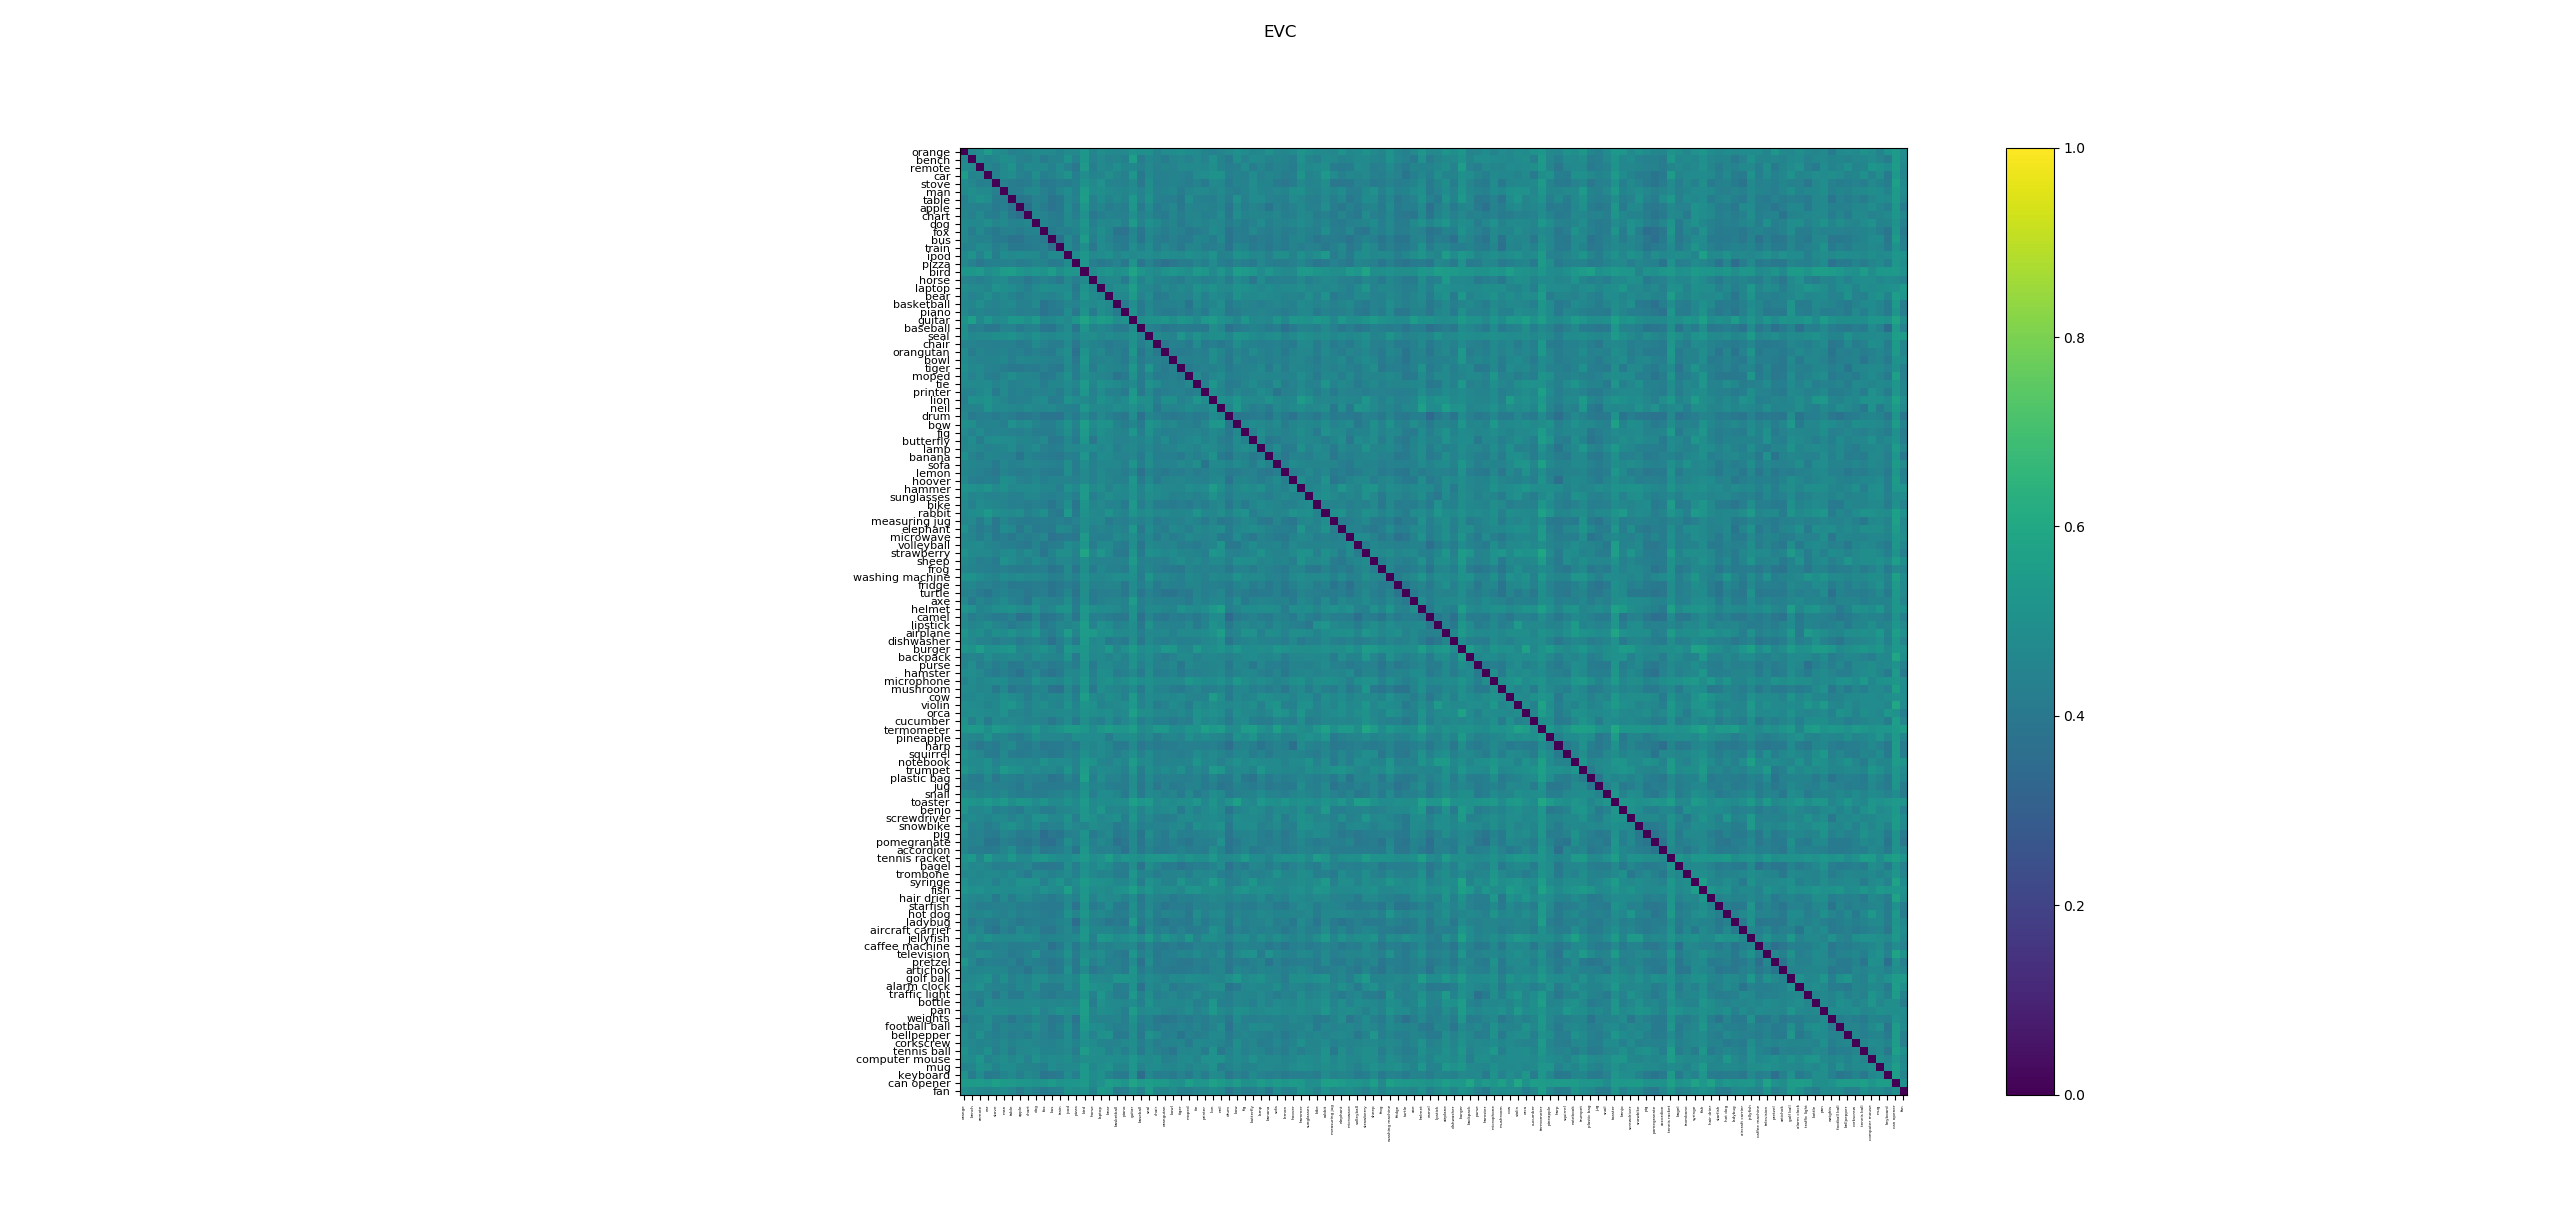
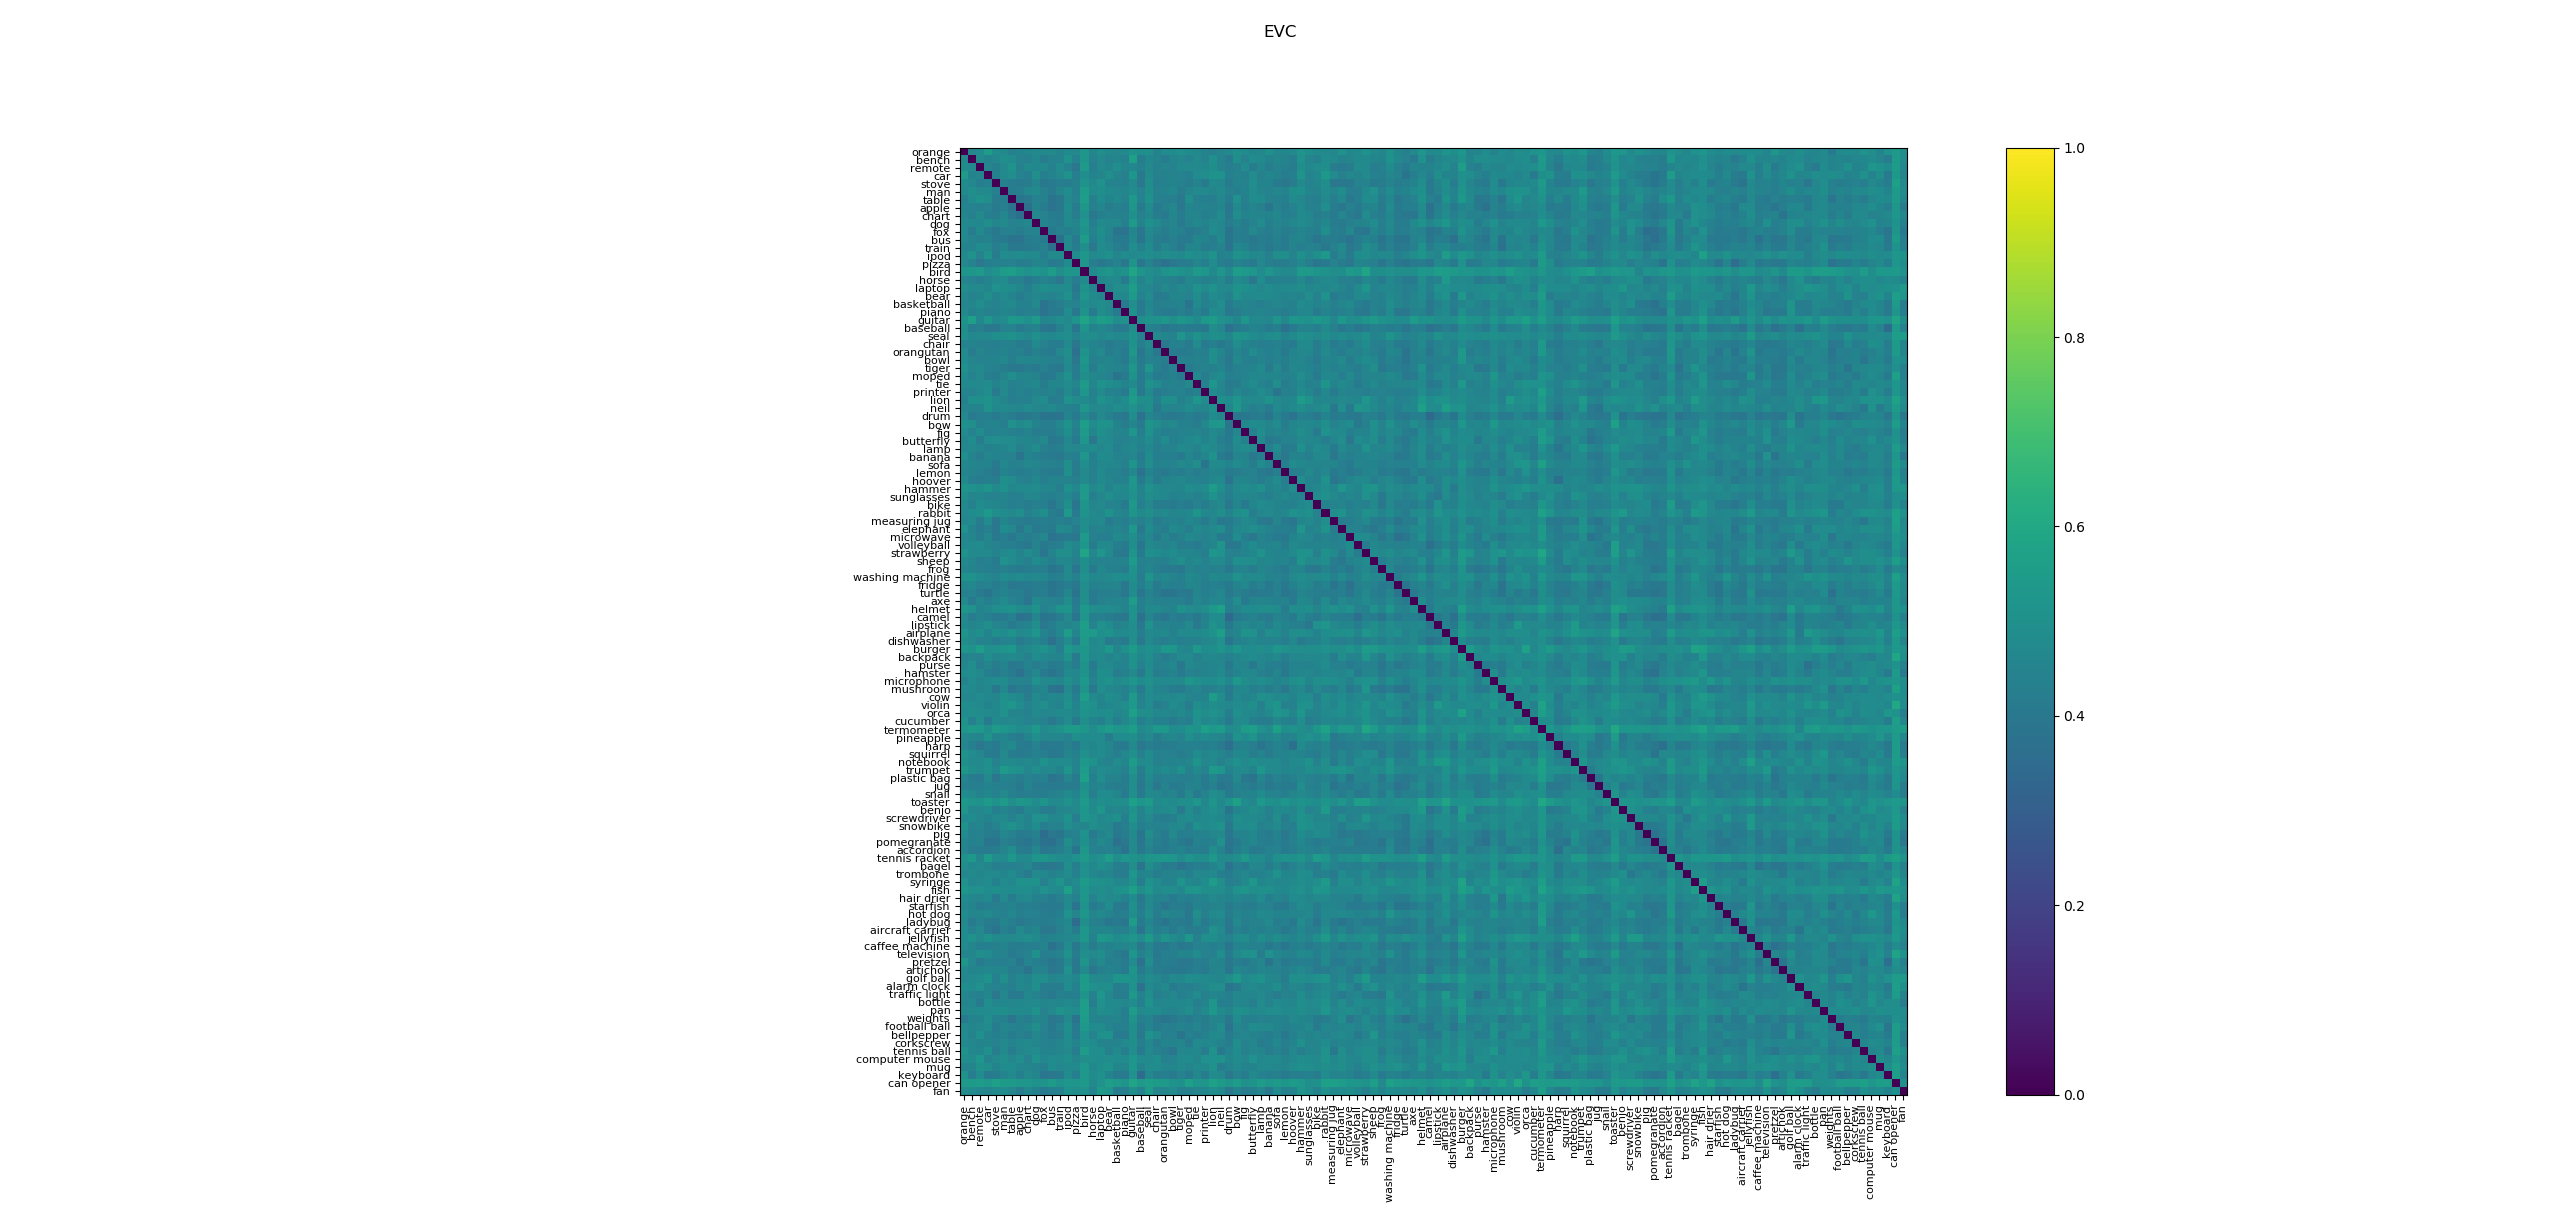
updates to plots layout

Changed region(s): [[0.375, 0.8959, 0.75, 0.9577]]

diff --git a/cichy118_evaluate_dc_fmri.py b/cichy118_evaluate_dc_fmri.py
@@ -171,29 +171,42 @@ def main(layers,act,img_names,img_synsets):
 
 
     ######### evaluate dc vs fmri
-    for layer in range(0,len(layers)):
-        out = evaluate(dc_rdm[layer], fmri_rdm_dict)
-        print('=' * 20)
-        print('dc%s_fMRI results:' %str(layer+1))
-        print('Squared correlation of model to EVC (R**2): {}'.format(out['EVC_RDMs'][0]), '  and significance: {}'.format(out['EVC_RDMs'][1]))
-        print('Squared correlation of model to IT (R**2): {}'.format(out['IT_RDMs'][0]), '  and significance: {}'.format(out['IT_RDMs'][1]))
-        print('SCORE (average of the two correlations): {}'.format(out['score'])) 
+    with open('dc_fmri_scores.txt', 'w') as f:
+        for layer in range(0,len(layers)):
+            out = evaluate(dc_rdm[layer], fmri_rdm_dict)
+            print('=' * 20)
+            print('dc%s_fMRI results:' %str(layer+1))
+            print('Squared correlation of model to EVC (R**2): {}'.format(out['EVC_RDMs'][0]), '  and significance: {}'.format(out['EVC_RDMs'][1]))
+            print('Squared correlation of model to IT (R**2): {}'.format(out['IT_RDMs'][0]), '  and significance: {}'.format(out['IT_RDMs'][1]))
+            print('SCORE (average of the two correlations): {}'.format(out['score'])) 
+            f.write('=' * 20 + '\n')
+            f.write('dc%s_fMRI results:' %str(layer+1) + '\n')
+            f.write('Squared correlation of model to EVC (R**2): {}'.format(out['EVC_RDMs'][0]) + '\n')
+            f.write('Squared correlation of model to IT (R**2): {}'.format(out['IT_RDMs'][0]) + '\n')
+            f.write('SCORE (average of the two correlations): {}'.format(out['score']) + '\n') 
 
         #evc_percentNC = ((out['EVC_RDMs'][0])/nc118_EVC_R2)*100.      #evc percent of noise ceiling
         #it_percentNC = ((out['IT_RDMs'][0])/nc118_IT_R2)*100.         #it percent of noise ceiling
         #score_percentNC = ((out['score'])/nc118_avg_R2)*100.      #avg (score) percent of noise ceiling
  
 
-    ####### DC plots
+    ####### DC plots with numeric order
     plot(dc_rdm[0], vmin = 0, vmax = 1, labels = orderedNames, main = 'DC layer 1', outname = 'rdm_dc1.png')
     plot(dc_rdm[1], vmin = 0, vmax = 1, labels = orderedNames, main = 'DC layer 2', outname = 'rdm_dc2.png')
     plot(dc_rdm[2], vmin = 0, vmax = 1, labels = orderedNames, main = 'DC layer 3', outname = 'rdm_dc3.png')
     plot(dc_rdm[3], vmin = 0, vmax = 1, labels = orderedNames, main = 'DC layer 4', outname = 'rdm_dc4.png')
     plot(dc_rdm[4], vmin = 0, vmax = 1, labels = orderedNames, main = 'DC layer 5', outname = 'rdm_dc5.png')
 
-    ####### fmri plots
+    ####### fmri plots with numeric order
     plot(EVC, vmin = 0, vmax = 1, labels = orderedNames, main = 'EVC', outname = 'rdm_EVC.png')
     plot(IT, vmin = 0, vmax = 1, labels = orderedNames, main = 'IT', outname = 'rdm_IT.png')
+
+    ####### DC plots with lch order
+#    plot(dc_rdm[0], vmin = 0, vmax = 1, labels = orderedNames, main = 'DC layer 1', outname = 'rdm_dc1_LCHorder.png')
+#    plot(dc_rdm[1], vmin = 0, vmax = 1, labels = orderedNames, main = 'DC layer 2', outname = 'rdm_dc2_LCHorder.png')
+#    plot(dc_rdm[2], vmin = 0, vmax = 1, labels = orderedNames, main = 'DC layer 3', outname = 'rdm_dc3_LCHorder.png')
+#    plot(dc_rdm[3], vmin = 0, vmax = 1, labels = orderedNames, main = 'DC layer 4', outname = 'rdm_dc4_LCHorder.png')
+#    plot(dc_rdm[4], vmin = 0, vmax = 1, labels = orderedNames, main = 'DC layer 5', outname = 'rdm_dc5_LCHorder.png')
 
 
 if __name__ == '__main__':
